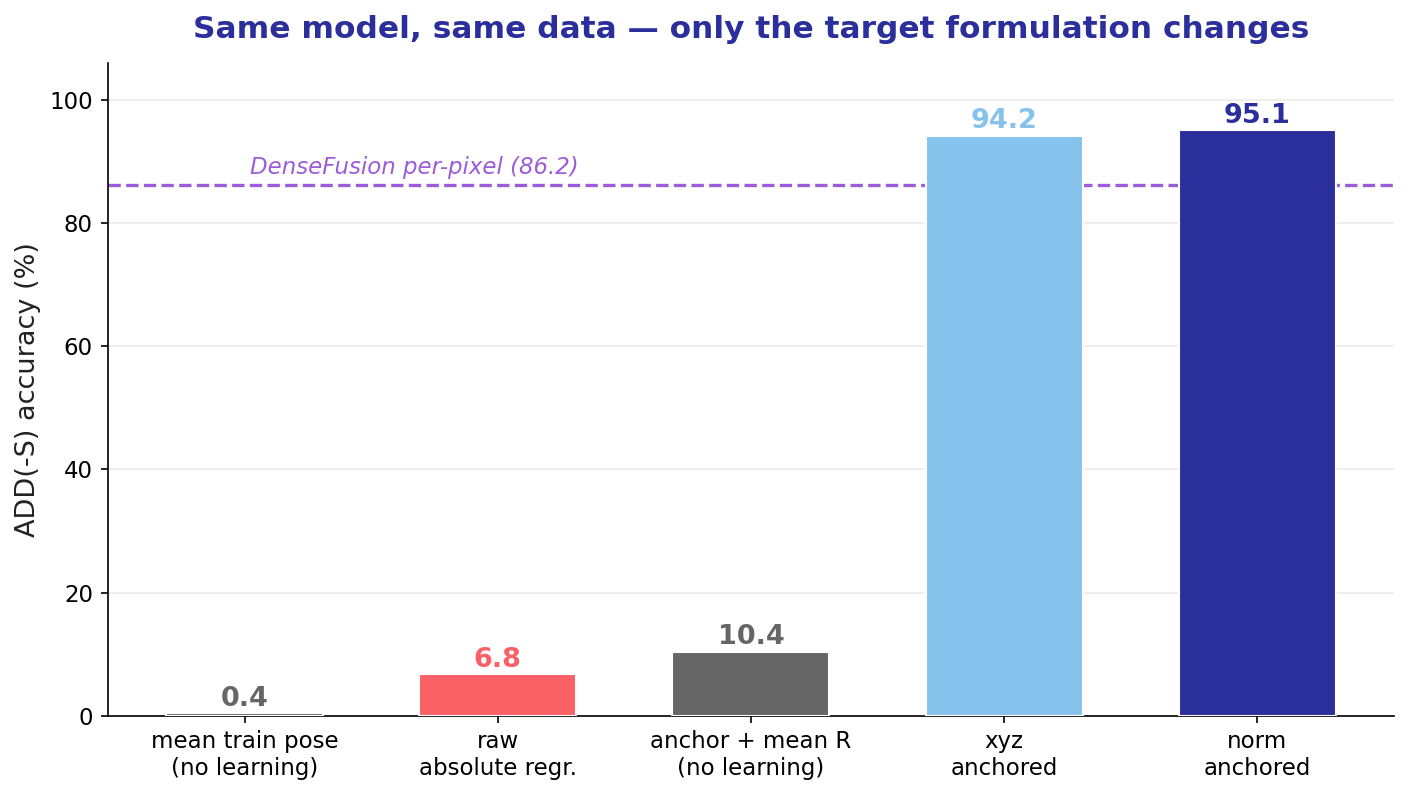
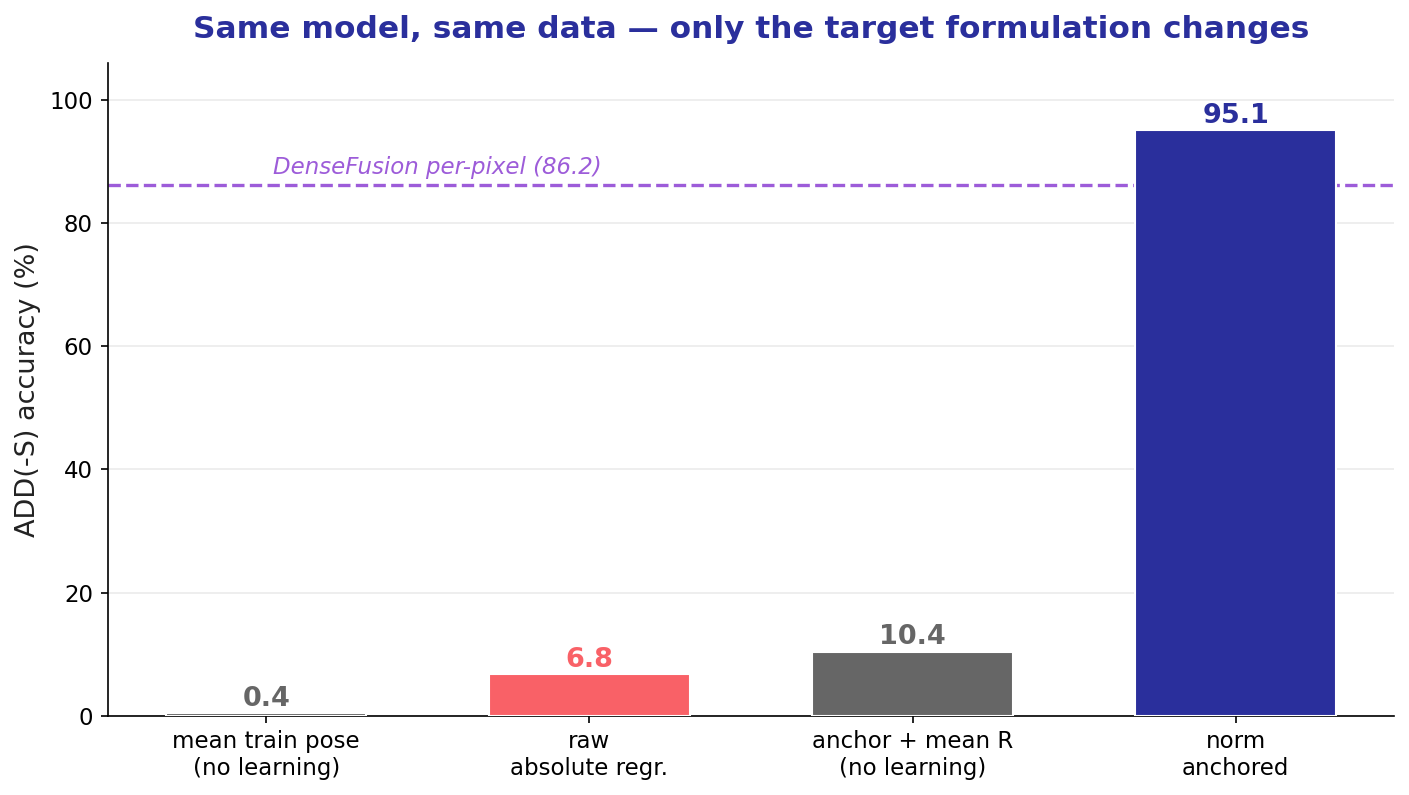
report: align the paper with the removal of the xyz variant
The xyz row was dropped from the ablation and per-class tables, but three
places still referred to it: the contributions list still promised an
ablation over three geometry input formats, the ablation figure still
plotted an xyz bar next to a table that no longer had one, and the
conclusion still claimed the target matters more than the input encoding
-- a claim that only the xyz comparison supported.

Also drops the sentence stating that hyperparameters were selected by
grid search: no such search exists in the repository or in the training
logs, and the values are the ones carried over from the initial setup.

diff --git a/report/5_conclusion.tex b/report/5_conclusion.tex
@@ -4,7 +4,7 @@
 \section{Conclusion}
 \label{sec:conclusion}
 
-We presented a modular pipeline for 6D object pose estimation on the official LineMod protocol, trained only on the $\sim$15\% real-image split. Our main finding is that, when training data is this limited, the most important design choice for a lightweight global-fusion architecture is \emph{how the translation target is defined}: direct absolute regression from pooled features fails (6.8\% ADD(-S), worse than what the depth median alone gives), while anchoring the prediction to a 3D point back-projected from the observed depth brings the same 36M-parameter model to 95.1\% ADD(-S) in a full end-to-end evaluation with predicted detections --- beating the per-pixel variant of DenseFusion under the same protocol and data conditions, with no per-point fusion, no refinement, and no synthetic training data. A memorization analysis (retrieval and oracle nearest-neighbor bounds at 2.3\% and 7.1\%, and a flat accuracy profile up to $12^\circ$ of viewpoint gap) supports the conclusion that the model is actually generalizing geometrically rather than memorizing. In this regime, expressing the regression target relative to observed geometry turns out to matter more than model capacity or input encoding.
+We presented a modular pipeline for 6D object pose estimation on the official LineMod protocol, trained only on the $\sim$15\% real-image split. Our main finding is that, when training data is this limited, the most important design choice for a lightweight global-fusion architecture is \emph{how the translation target is defined}: direct absolute regression from pooled features fails (6.8\% ADD(-S), worse than what the depth median alone gives), while anchoring the prediction to a 3D point back-projected from the observed depth brings the same 36M-parameter model to 95.1\% ADD(-S) in a full end-to-end evaluation with predicted detections --- beating the per-pixel variant of DenseFusion under the same protocol and data conditions, with no per-point fusion, no refinement, and no synthetic training data. A memorization analysis (retrieval and oracle nearest-neighbor bounds at 2.3\% and 7.1\%, and a flat accuracy profile up to $12^\circ$ of viewpoint gap) supports the conclusion that the model is actually generalizing geometrically rather than memorizing. In this regime, expressing the regression target relative to observed geometry turns out to matter more than model capacity.
 
 \paragraph{Limitations and Future Work}
 We identify four main limitations. \textbf{(i) Small objects}: the two smallest classes (ape, duck) remain the weakest (87--90\%), because the diameter-relative ADD threshold shrinks to 10--11\,mm; sub-pixel refinements of the crop or a local per-pixel branch could help close this gap. \textbf{(ii) Extrapolation tail}: beyond $14^\circ$ from the nearest training view (2.4\% of the test set) accuracy drops to 67--72\%, marking the limit of viewpoint interpolation; synthetic view augmentation~\cite{he2020pvn3d, he2021ffb6d} is the standard remedy and is fully compatible with our approach. \textbf{(iii) Single anchor under occlusion}: the median anchor summarizes the visible surface with a single point. It handles detector jitter well (Sec.~\ref{sec:exp_results}), but we cannot assess how it behaves under heavy occlusion on this benchmark. Measuring visibility as the fraction of projected model points that fall inside the object mask, the official LineMod test split is almost occlusion-free: median visibility 0.95, 1st percentile 0.89, and a single frame below 0.85 in a 3{,}250-frame sample. Whether a single anchor breaks down where dense per-point methods succeed is therefore an open question, to be tested on Occlusion-LINEMOD; a sparse multi-anchor variant is the natural extension to try alongside it. \textbf{(iv) Aspect-ratio distortion}: the square crop with side $\max(w,h)$ resized to $224{\times}224$ introduces non-isotropic resampling; square padding would preserve the aspect ratio at negligible cost.

diff --git a/report/1_intro.tex b/report/1_intro.tex
@@ -22,7 +22,7 @@ We test everything on the official LineMod split, training on 2{,}016 real image
 
 \begin{itemize}
     \item An \textbf{anchored residual formulation} for the translation target in global RGB-D fusion: with the same architecture, data, and training recipe, it raises ADD(-S) accuracy from 6.8\% (direct absolute regression) to 95.1\% in a full end-to-end evaluation with predicted detections.
-    \item A controlled \textbf{ablation comparing different geometry input formats} (raw metric depth, anchor-normalized depth, per-pixel XYZ maps), showing that anchoring the target --- not a richer input encoding --- is what makes the difference.
+    \item A controlled \textbf{ablation of the translation target}, bounded by two learning-free references: absolute regression scores \emph{below} what the depth median alone provides (6.8\% vs 10.4\%), locating the failure in how the target is formulated rather than in the amount of training data.
     \item A \textbf{memorization analysis}: retrieval- and oracle-nearest-neighbor baselines cap any pose-copying strategy at 7.1\% on this protocol, and accuracy stays stable up to $12^\circ$ of viewpoint gap, ruling out the possibility that the model is just memorizing training views.
     \item The system outperforms the per-pixel variant of DenseFusion (86.2\%)~\cite{wang2019densefusion} under the same protocol and data regime, while using only $\sim$36M parameters, with no per-point processing and no refinement stage.
 \end{itemize}

diff --git a/report/4_experiments.tex b/report/4_experiments.tex
@@ -15,7 +15,7 @@ We evaluate on LineMod~\cite{hinterstoisser2012model} (13 objects, RGB-D, clutte
 We report the standard ADD accuracy: a pose counts as correct if the average distance between model points transformed by the predicted and ground-truth poses is below 10\% of the object diameter. For the two symmetric objects (eggbox, glue) we use the closest-point variant ADD-S. Diameters come from the dataset's \texttt{models\_info} file; $N{=}500$ model points are used throughout.
 
 \paragraph{Training}
-All pose models are trained with Adam (lr $10^{-4}$, weight decay $10^{-4}$), batch size 64, ADD loss (Eq.~\ref{eq:add_loss}), \texttt{ReduceLROnPlateau} scheduling, and early stopping on validation ADD (patience 30, epoch cap 400). Hyperparameters were chosen via grid search on the validation set. Only photometric augmentation is used (Sec.~\ref{sec:method_fusion}).
+All pose models are trained with Adam (lr $10^{-4}$, weight decay $10^{-4}$), batch size 64, ADD loss (Eq.~\ref{eq:add_loss}), \texttt{ReduceLROnPlateau} scheduling, and early stopping on validation ADD (patience 30, epoch cap 400). Only photometric augmentation is used (Sec.~\ref{sec:method_fusion}).
 
 % ------------------------------------------------------------------
 \subsection{Phase 2: Object Detection}
